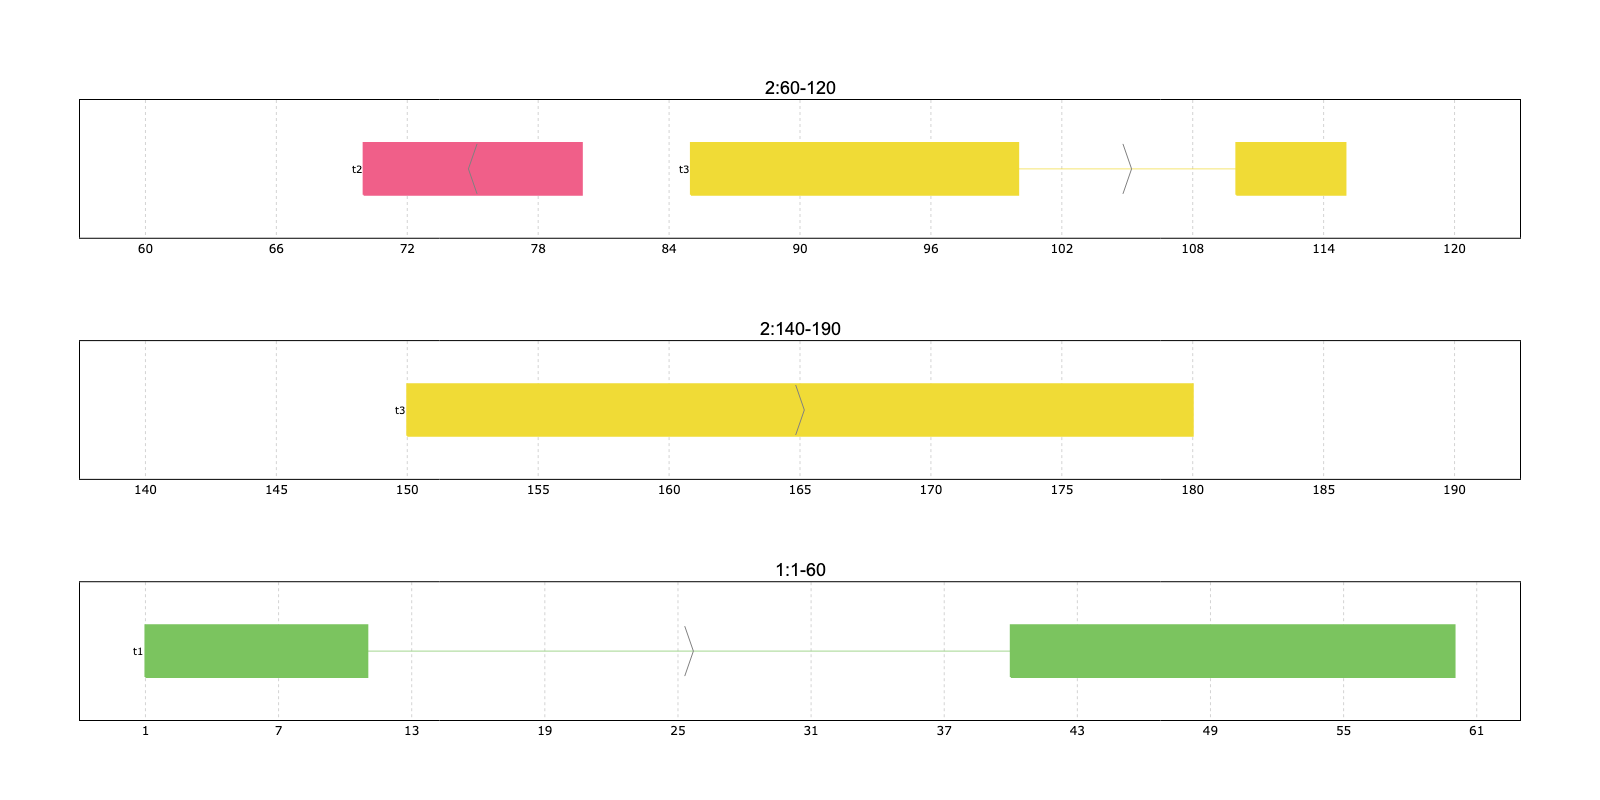
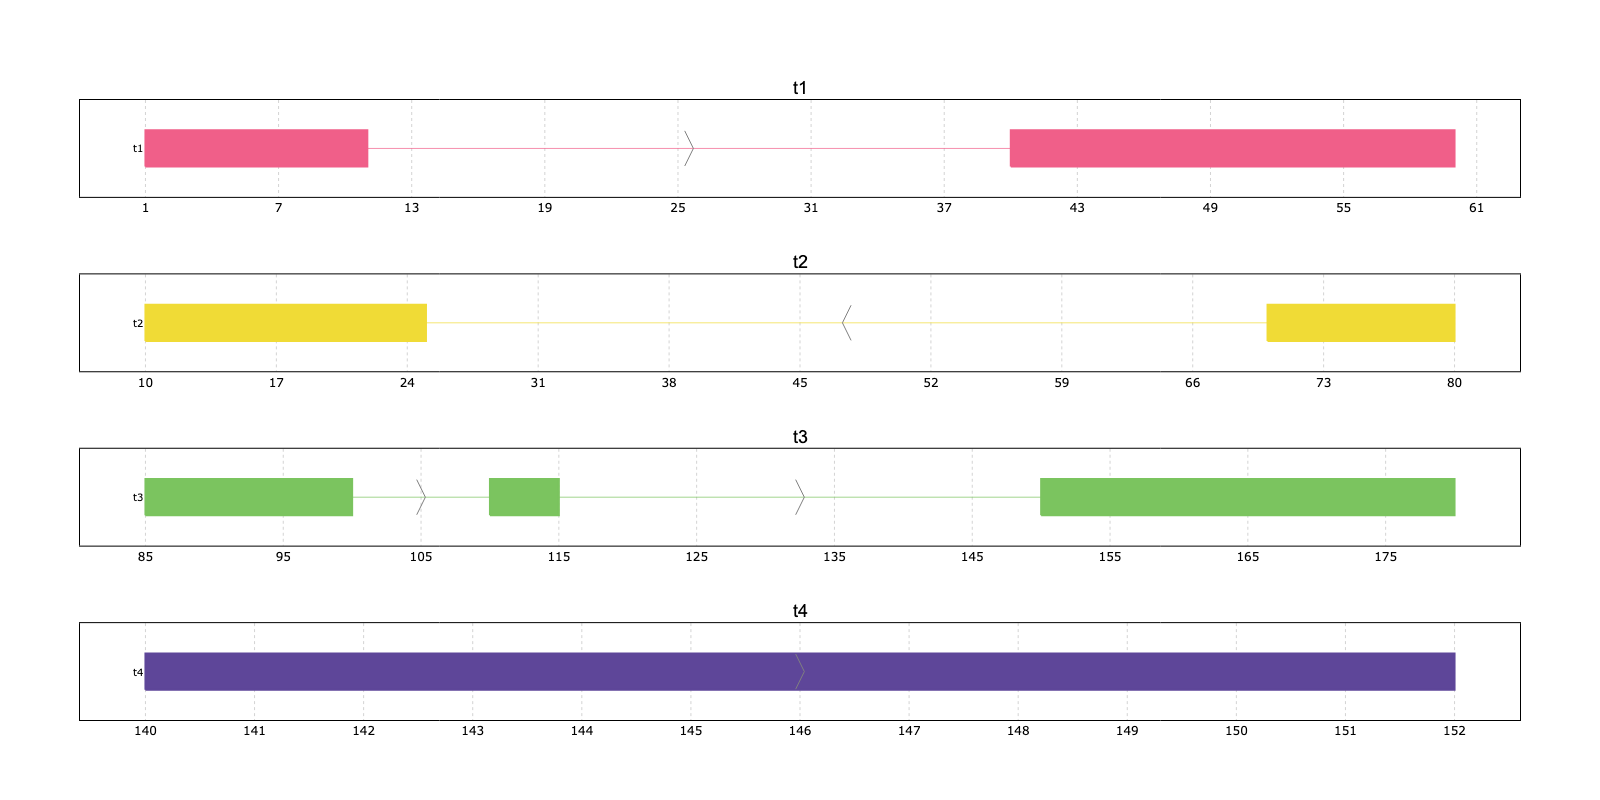
docs: simplify regions tutorial and auto titles

diff --git a/src/pyrangeyes/plot_main.py b/src/pyrangeyes/plot_main.py
@@ -106,7 +106,7 @@ def plot(
     thick_cds=False,
     text=True,
     legend=False,
-    title_chr="Chromosome {chrom}",
+    title_chr=None,
     y_labels=None,
     tooltip=None,
     to_file=None,
@@ -168,17 +168,10 @@ def plot(
           will be left as default.
 
     regions: {None, list, str, pyranges.PyRanges}, default None
-        Dedicated region layout. When provided, the default chromosome-grouped layout
-        is replaced by exactly the selected regions, in order, and ``limits`` is ignored.
-
-        - list: entries can be ``(chromosome, start, end)`` tuples or PyRanges
-          objects. Each tuple/row becomes one panel. ``start`` or ``end`` can be
-          ``None`` to use the default limit for that side.
-        - pyranges.PyRanges: each row defines one region panel using its
-          ``Chromosome``, ``Start`` and ``End`` columns.
-        - str: interpreted as a column name in the plotted data. Each distinct
-          value of that column becomes one panel, in data order, and limits are
-          computed from the intervals in that group as usual.
+        Optional panel layout replacing the default one-panel-per-chromosome layout.
+        If provided, panels are exactly these regions in order and ``limits`` is ignored.
+        Use a list of ``(chromosome, start, end)`` tuples and/or PyRanges objects,
+        a PyRanges object (one row per panel), or a column name whose values define panels.
 
     thick_cds: bool, default False
         Display differentially transcript regions belonging and not belonging to CDS. The CDS/exon information
@@ -193,16 +186,11 @@ def plot(
     legend: bool, default False
         Whether the legend should appear in the plot.
 
-    title_chr: str, default "Chromosome {chrom}"
-        Format string for subplot titles. Three placeholders are available:
-        ``{chrom}`` (the chromosome name), ``{start}`` and ``{end}`` (the
-        panel's coordinate range). When ``regions`` declares an explicit window
-        for the panel, ``{start}`` / ``{end}`` are filled with that window;
-        otherwise they are filled with the dynamically determined min/max of
-        the data shown in the panel. Coordinates are formatted with thousands
-        separators (``1,000`` instead of ``1000``). Set this to a custom
-        string to change the format, e.g. ``"Chromosome {chrom}"`` to recover
-        the legacy chromosome-only title.
+    title_chr: {None, str}, default None
+        Subplot title template. Available placeholders: ``{chrom}``, ``{start}``, ``{end}``.
+        If None, pyrangeyes chooses ``"Chromosome {chrom}"`` normally,
+        ``"{chrom}:{start}-{end}"`` for explicit ``regions``, and ``"{chrom}"``
+        when ``regions`` is a column name.
 
     y_labels: list, default None
         Name to identify the PyRanges object/s in the plot.
@@ -439,6 +427,14 @@ def plot(
     # requested region panels and ignore `limits` for this call. Otherwise,
     # keep legacy `limits` behavior as coordinate customization for chromosome
     # panels.
+    if title_chr is None:
+        if isinstance(regions, str):
+            title_chr = "{chrom}"
+        elif regions is not None:
+            title_chr = "{chrom}:{start}-{end}"
+        else:
+            title_chr = "Chromosome {chrom}"
+
     if regions is not None:
         subdf, limits, panel_display = _normalize_regions_to_panels(subdf, regions)
     else:

diff --git a/tests/test_regions.py b/tests/test_regions.py
@@ -51,19 +51,9 @@ def test_regions_list_accepts_embedded_pyranges_matplotlib():
 
 def test_regions_column_uses_groups_as_panels_matplotlib():
     pre.set_engine("matplotlib")
-    fig = pre.plot(
-        _data(),
-        id_col="tx",
-        regions="region_group",
-        return_plot="fig",
-        title_chr="{chrom}:{start}-{end}",
-    )
+    fig = pre.plot(_data(), id_col="tx", regions="region_group", return_plot="fig")
 
-    assert [ax.get_title() for ax in fig.axes] == [
-        "left:1,000-2,500",
-        "right:50,000-56,000",
-        "chr2:10-20",
-    ]
+    assert [ax.get_title() for ax in fig.axes] == ["left", "right", "chr2"]
 
 
 def test_regions_list_replaces_chromosome_layout_plotly():

diff --git a/docs/tutorial.rst b/docs/tutorial.rst
@@ -126,34 +126,16 @@ To plot with specified limits, use the following code:
 Plotting selected regions as panels
 -----------------------------------
 
-Sometimes the desired layout is not one panel per chromosome, but one panel per selected region.
-Use the ``regions`` parameter for this. When ``regions`` is provided, the default chromosome-grouped
-layout is replaced by the listed regions, in order. In that call, ``limits`` is ignored because each
-region defines its own coordinate window.
+Use ``regions`` to replace the default one-panel-per-chromosome layout with specific panels.
+For example, this makes one panel per transcript by using a column name:
 
-The most direct form is a list of ``(chromosome, start, end)`` tuples. ``start`` or ``end`` can be
-``None`` to use the default coordinate limit on that side. PyRanges objects can also be included in
-this list; each row becomes one region panel.
-
-    >>> pre.plot(
-    ...     p,
-    ...     regions=[(2, 60, 120), (2, 140, 190), (1, None, None)],
-    ...     color_col="transcript_id",
-    ...     title_chr="{chrom}:{start}-{end}",
-    ... )
+    >>> pre.plot(p, regions="transcript_id", color_col="transcript_id")
 
 .. image:: images/prp_rtd_29.png
 
-A standalone PyRanges object can also define the regions, one row per panel:
+Explicit regions are also supported with ``(chromosome, start, end)`` tuples or PyRanges rows:
 
-    >>> import pyranges1 as pr
-    >>> selected = pr.PyRanges({"Chromosome": [2, 1], "Start": [60, 1], "End": [120, 100]})
-    >>> pre.plot(p, regions=selected, title_chr="{chrom}:{start}-{end}")
-
-Finally, ``regions`` can be a column name. In that case, each distinct value of the column becomes a
-panel, and the coordinate limits are computed from the intervals in that group as usual:
-
-    >>> pre.plot(p, regions="feature1", title_chr="{chrom}:{start}-{end}")
+    >>> pre.plot(p, regions=[(2, 60, 120), (2, 140, 190), (1, None, None)])
 
 Coloring
 --------
